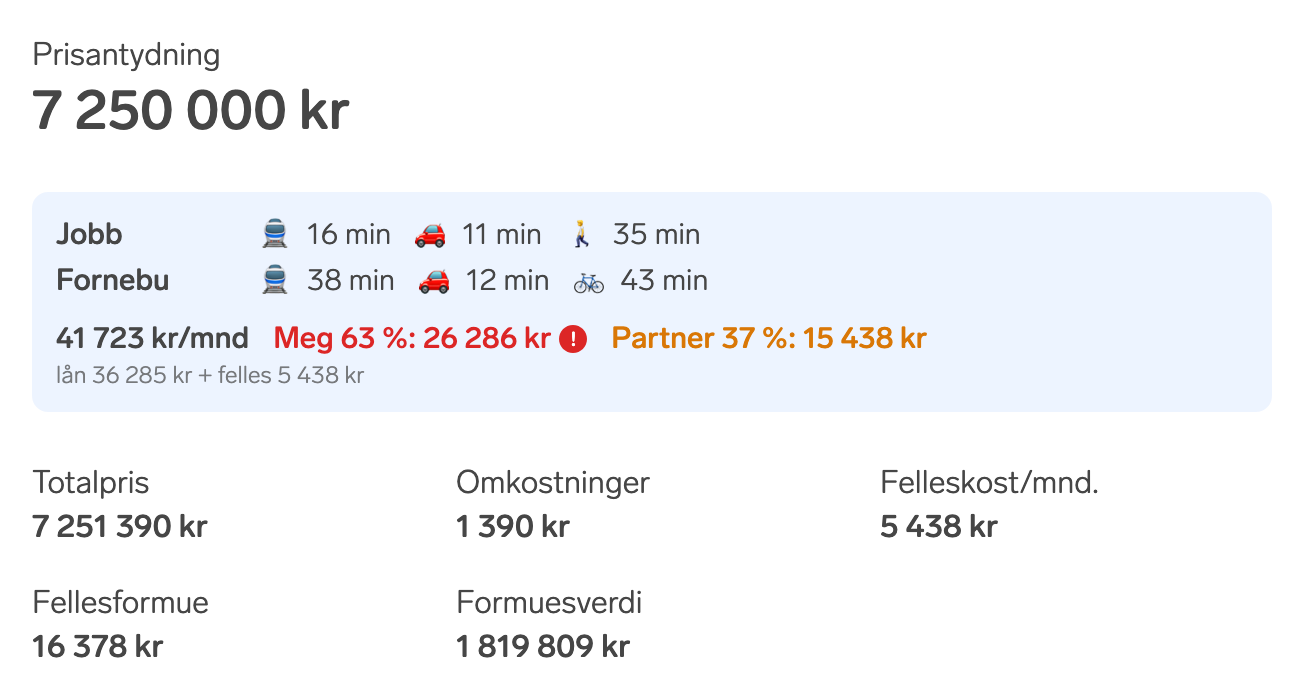
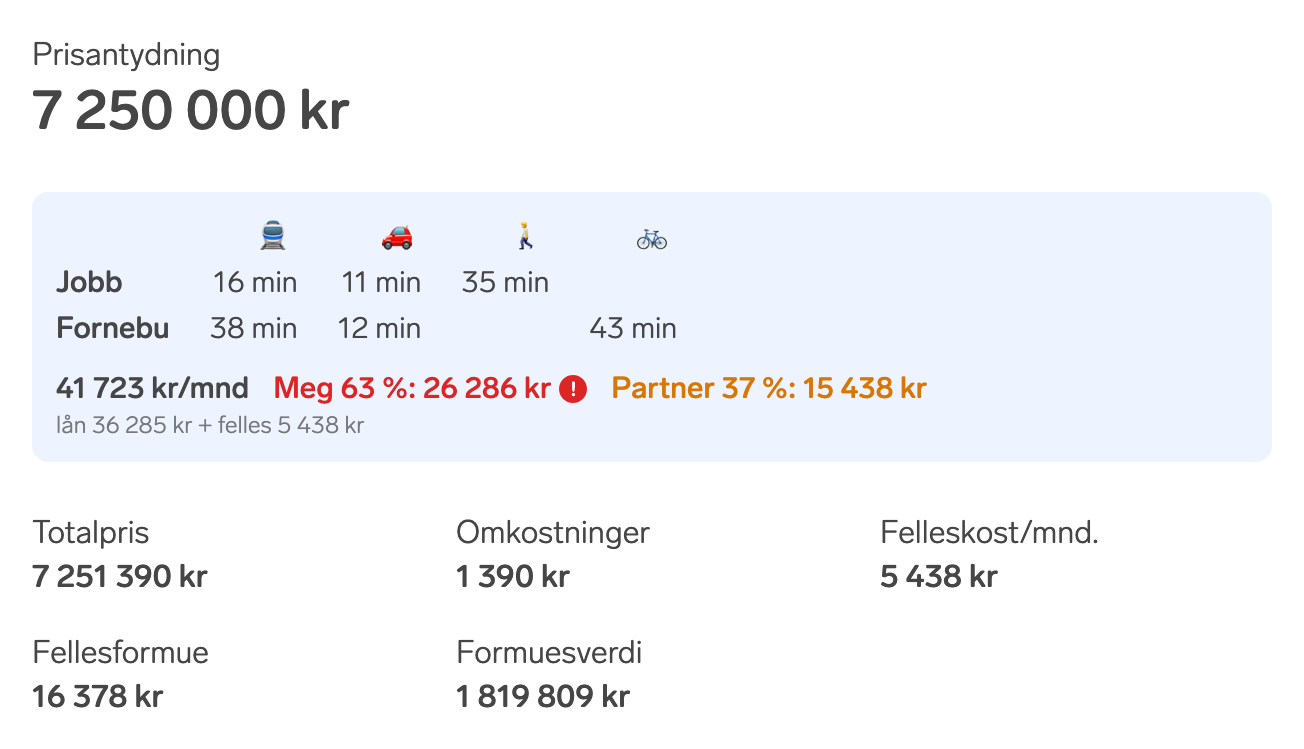
feat: show travel times in an aligned table
- one row per destination and one column per travel mode used, with the mode icons as column headers
- times are right-aligned with tabular digits, and unused modes leave an empty cell
- update the README screenshots

diff --git a/src/content.ts b/src/content.ts
@@ -15,6 +15,7 @@ import {
   isRoutable,
   loadSettings,
   MODE_NAMES,
+  MODES,
   onSettingsChanged,
   splitsAddUp,
   type Mode,
@@ -104,15 +105,15 @@ function splitChip({ split, amount, status }: SplitCost, from: string): HTMLElem
   return chip;
 }
 
-function travelCell(mode: Mode, result: TravelResult | undefined): HTMLElement {
-  const cell = el("span", "ff-time");
+function travelCell(mode: Mode, result: TravelResult | undefined): HTMLTableCellElement {
+  const cell = el("td");
   if (!result) {
-    cell.textContent = `${MODE_ICONS[mode]} …`;
+    cell.textContent = "…";
   } else if ("error" in result) {
-    cell.textContent = `${MODE_ICONS[mode]} –`;
+    cell.textContent = "–";
     cell.title = `${MODE_NAMES[mode]}: ${result.error}`;
   } else {
-    cell.textContent = `${MODE_ICONS[mode]} ${formatDuration(result.seconds)}`;
+    cell.textContent = formatDuration(result.seconds);
     cell.title = [MODE_NAMES[mode], result.summary].filter(Boolean).join(": ");
   }
   return cell;
@@ -128,16 +129,28 @@ function drawTravel(card: Card, times: TravelTimes | undefined, error?: string):
     card.travel.append(button);
     return;
   }
-  for (const destination of destinations) {
-    const row = el("div", "ff-row");
-    row.append(el("span", "ff-label", destination.label || destination.address));
-    const cells = el("span", "ff-times");
-    for (const mode of destination.modes) {
-      cells.append(travelCell(mode, error ? { error } : times?.[destination.id]?.[mode]));
-    }
-    row.append(cells);
-    card.travel.append(row);
+  const modes = MODES.filter((mode) => destinations.some((destination) => destination.modes.includes(mode)));
+  const table = el("table", "ff-table");
+  const header = table.createTHead().insertRow();
+  header.append(el("td"));
+  for (const mode of modes) {
+    const icon = el("th", undefined, MODE_ICONS[mode]);
+    icon.scope = "col";
+    icon.title = MODE_NAMES[mode];
+    header.append(icon);
   }
+  const body = table.createTBody();
+  for (const destination of destinations) {
+    const row = body.insertRow();
+    const name = el("th", undefined, destination.label || destination.address);
+    name.scope = "row";
+    row.append(name);
+    for (const mode of modes) {
+      const result = error ? { error } : times?.[destination.id]?.[mode];
+      row.append(destination.modes.includes(mode) ? travelCell(mode, result) : el("td"));
+    }
+  }
+  card.travel.append(table);
 }
 
 async function renderTravel(card: Card): Promise<void> {

diff --git a/static/content.css b/static/content.css
@@ -17,30 +17,27 @@
   font-size: 15px;
 }
 
-.ff-travel {
-  display: grid;
-  gap: 2px;
+.ff-table {
+  border-collapse: collapse;
+  font-variant-numeric: tabular-nums;
 }
 
-.ff-row {
-  display: flex;
-  flex-wrap: wrap;
-  gap: 2px 12px;
-}
-
-.ff-label {
-  min-width: 90px;
-  font-weight: 600;
-}
-
-.ff-times {
-  display: flex;
-  flex-wrap: wrap;
-  gap: 2px 12px;
-}
-
-.ff-time {
+.ff-table th,
+.ff-table td {
+  padding: 1px 0 1px 20px;
+  font-weight: normal;
+  text-align: right;
   white-space: nowrap;
+}
+
+.ff-table tr > :first-child {
+  padding-left: 0;
+  text-align: left;
+}
+
+.ff-table th[scope="row"] {
+  font-weight: 600;
+  white-space: normal;
 }
 
 .ff-amounts {
